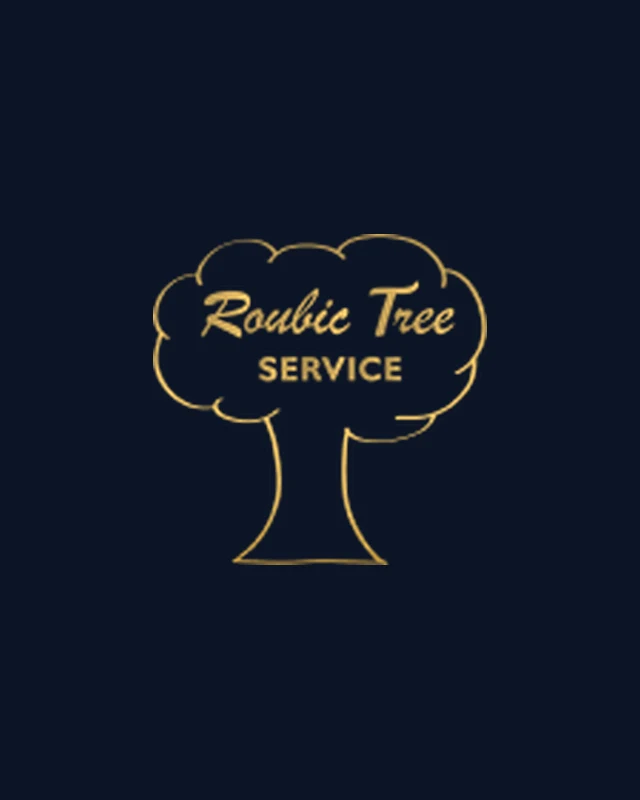
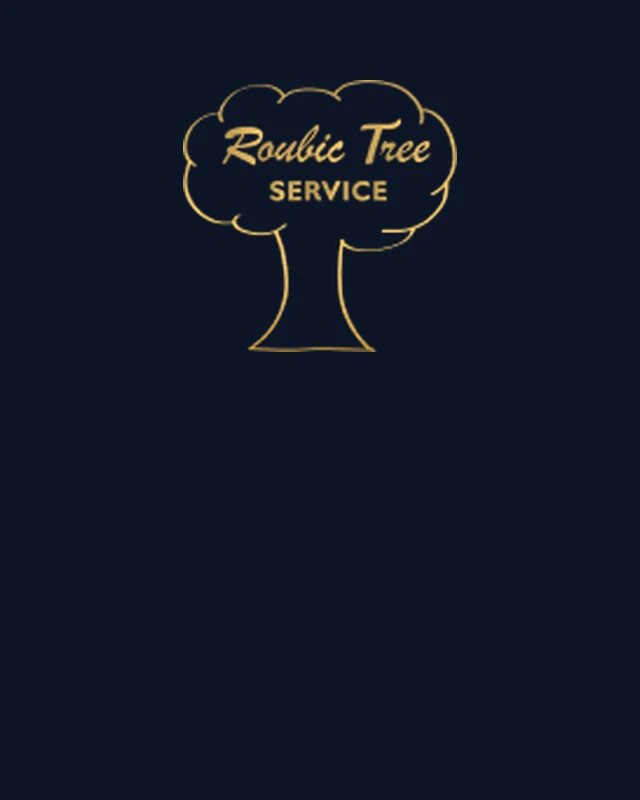
QA6: Rhino-Rooter mobile nav; portrait tree; decision-table size; guide tables
- Mobile menu rebuilt to the Rhino Rooter pattern: dark navy panel sliding in
  from the right, gold phone bar + white logo + close button pinned at top,
  uppercase links with carets, gold CTA at bottom, page dimmed behind.
- About/Why portrait avatars: the gold tree logo was cut in half by the name
  card -> regenerated with the tree in the upper area so it sits fully above the
  card/seal (which now rest on plain navy).
- Decision table: "No" cells were 18px vs "Yes" 14px -> both 14px.
- Resource/guide pricing tables on mobile: switched to table-layout:fixed so all
  columns fit the screen (the 6-column table on tree-removal-cost-guide was still
  scrolling). All guide tables now fit; page doesn't overflow.

Build 111 OK; audit PASS.

diff --git a/public/assets/client_custom.css b/public/assets/client_custom.css
@@ -186,7 +186,7 @@ body.pt-home .city-grid, body.pt-service-hub .city-grid, body.pt-service-spoke .
 .article-section tbody tr:hover { background: rgba(212,175,55,0.07); }
 @media (max-width: 640px) {
   .article-section table {
-    display: block; overflow-x: auto; -webkit-overflow-scrolling: touch; white-space: nowrap;
+    display: table; width: 100%; table-layout: fixed;
   }
 }
 
@@ -284,26 +284,68 @@ body[class*="pt-"] .page-hero .content { margin-left: 0; margin-right: auto; }
    horizontal scroll only as a fallback. */
 @media (max-width: 640px) {
   .article-section table {
-    display: block; width: 100%; overflow-x: auto; -webkit-overflow-scrolling: touch;
-    font-size: 13px;
+    display: table; width: 100%; table-layout: fixed; font-size: 12px;
   }
   .article-section table td, .article-section table th {
-    white-space: normal; padding: 8px 10px; min-width: 68px;
+    white-space: normal; overflow-wrap: anywhere; padding: 7px 6px;
   }
 }
 
-/* [#1] Mobile menu: keep the logo + close button visible at the top when open
-   (Rhino-style), instead of an empty top bar. */
-body.pt-home .mobile-menu, body[class*="pt-"] .mobile-menu { padding-top: 20px; }
-.mobile-menu-header {
+/* [QA6] Mobile menu rebuilt to match the Rhino Rooter pattern: a dark navy panel
+   that slides in from the right, gold phone bar + white logo + close button
+   pinned at top, uppercase links, gold CTA at the bottom, page dimmed behind. */
+body[class*="pt-"] .mobile-menu {
+  display: block; visibility: hidden;
+  inset: 0 0 0 auto; width: min(86%, 380px);
+  background: var(--navy); color: #fff; padding: 0 0 32px;
+  transform: translateX(100%); transition: transform .28s ease, visibility .28s;
+  box-shadow: none; overflow-y: auto; overscroll-behavior: contain;
+}
+body[class*="pt-"] .mobile-menu.open {
+  visibility: visible; transform: translateX(0);
+  box-shadow: 0 0 0 100vmax rgba(6,12,24,0.55);
+}
+.mobile-menu .mm-phonebar {
+  display: flex; align-items: center; justify-content: center; gap: 8px;
+  background: var(--gold); color: var(--navy); font-weight: 700; font-size: 15px;
+  padding: 12px 16px; text-decoration: none;
+}
+.mobile-menu .mobile-menu-header {
   display: flex; align-items: center; justify-content: space-between;
-  padding-bottom: 16px; margin-bottom: 8px; border-bottom: 1px solid var(--gray-2);
+  padding: 16px 20px; margin: 0; border-bottom: 1px solid rgba(255,255,255,0.12);
 }
-.mobile-menu-header .mm-logo img { height: 46px; width: auto; display: block; }
+.mobile-menu .mm-logo img { height: 44px; width: auto; display: block; }
 .mobile-menu .mobile-menu-close {
-  position: static; font-size: 26px; color: var(--navy);
-  background: transparent; border: none; cursor: pointer; line-height: 1;
+  position: static !important; color: #fff !important; background: transparent;
+  border: 1px solid rgba(255,255,255,0.35); border-radius: 6px;
+  width: 40px; height: 40px; font-size: 20px; line-height: 1;
+  display: flex; align-items: center; justify-content: center; cursor: pointer; margin: 0;
 }
+.mobile-menu > a,
+.mobile-menu > details > summary {
+  display: block; color: #fff !important; text-transform: uppercase; letter-spacing: 0.05em;
+  font-weight: 700; font-size: 15px; padding: 16px 20px !important; margin: 0;
+  border-bottom: 1px solid rgba(255,255,255,0.08);
+}
+.mobile-menu > details > summary { list-style: none; cursor: pointer; }
+.mobile-menu > details > summary::-webkit-details-marker { display: none; }
+.mobile-menu > details > summary::after {
+  content: "\f078"; font-family: "Font Awesome 6 Free"; font-weight: 900;
+  float: right; font-size: 12px; opacity: 0.7;
+}
+.mobile-menu > details[open] > summary::after { content: "\f077"; }
+.mobile-menu details ul {
+  list-style: none; margin: 0; padding: 4px 0 12px; background: rgba(0,0,0,0.2);
+}
+.mobile-menu details ul li a {
+  display: block; color: rgba(255,255,255,0.82) !important; text-transform: none;
+  font-weight: 400; font-size: 14px; padding: 10px 20px 10px 34px !important; border: none !important;
+}
+.mobile-menu .mobile-menu-ctas { padding: 22px 20px 0; }
+.mobile-menu .mobile-menu-ctas .btn { width: 100%; justify-content: center; }
+
+/* [QA6 #3] Decision table: "No" cells were 18px vs "Yes" 14px — make them match. */
+body.pt-service-hub .compare-row .no, body.pt-service-spoke .compare-row .no { font-size: 14px; }
 
 /* [#6] The firewood-quote modal (#ghlModal) is styled per-page-type in the
    canonical CSS, but some page types (e.g. contact) were missing the rule, so

diff --git a/src/lib/chrome.ts b/src/lib/chrome.ts
@@ -125,8 +125,9 @@ export const HEADER_CHROME = `<div class="utility-bar">
 </div>
 </header>
 <div class="mobile-menu" id="mobileMenu">
+<a class="mm-phonebar" href="tel:+14402948002"><i class="fa-solid fa-phone"></i> (440) 294-8002</a>
 <div class="mobile-menu-header">
-<a class="mm-logo" href="/"><img alt="Roubic Tree &amp; Landscape LLC" src="/brand_assets/ROUBIC TREE all BLUE.png"/></a>
+<a class="mm-logo" href="/"><img alt="Roubic Tree &amp; Landscape LLC" src="/brand_assets/ROUBIC TREE ALL WHITE.png"/></a>
 <button aria-label="Close menu" class="mobile-menu-close" onclick="document.getElementById('mobileMenu').classList.remove('open')">
 <i class="fa-solid fa-times"></i>
 </button>
@@ -164,7 +165,6 @@ export const HEADER_CHROME = `<div class="utility-bar">
 <a href="/about/">About</a>
 <a href="/contact/">Contact</a>
 <div class="mobile-menu-ctas">
-<a class="btn btn-secondary" href="tel:+14402948002" style="justify-content: center"><i class="fa-solid fa-phone"></i> Call (440) 294-8002</a>
 <a class="btn btn-primary" data-shine="true" href="/contact/" style="justify-content: center"><span>Get a Free Estimate</span></a>
 </div>
 </div>`;
